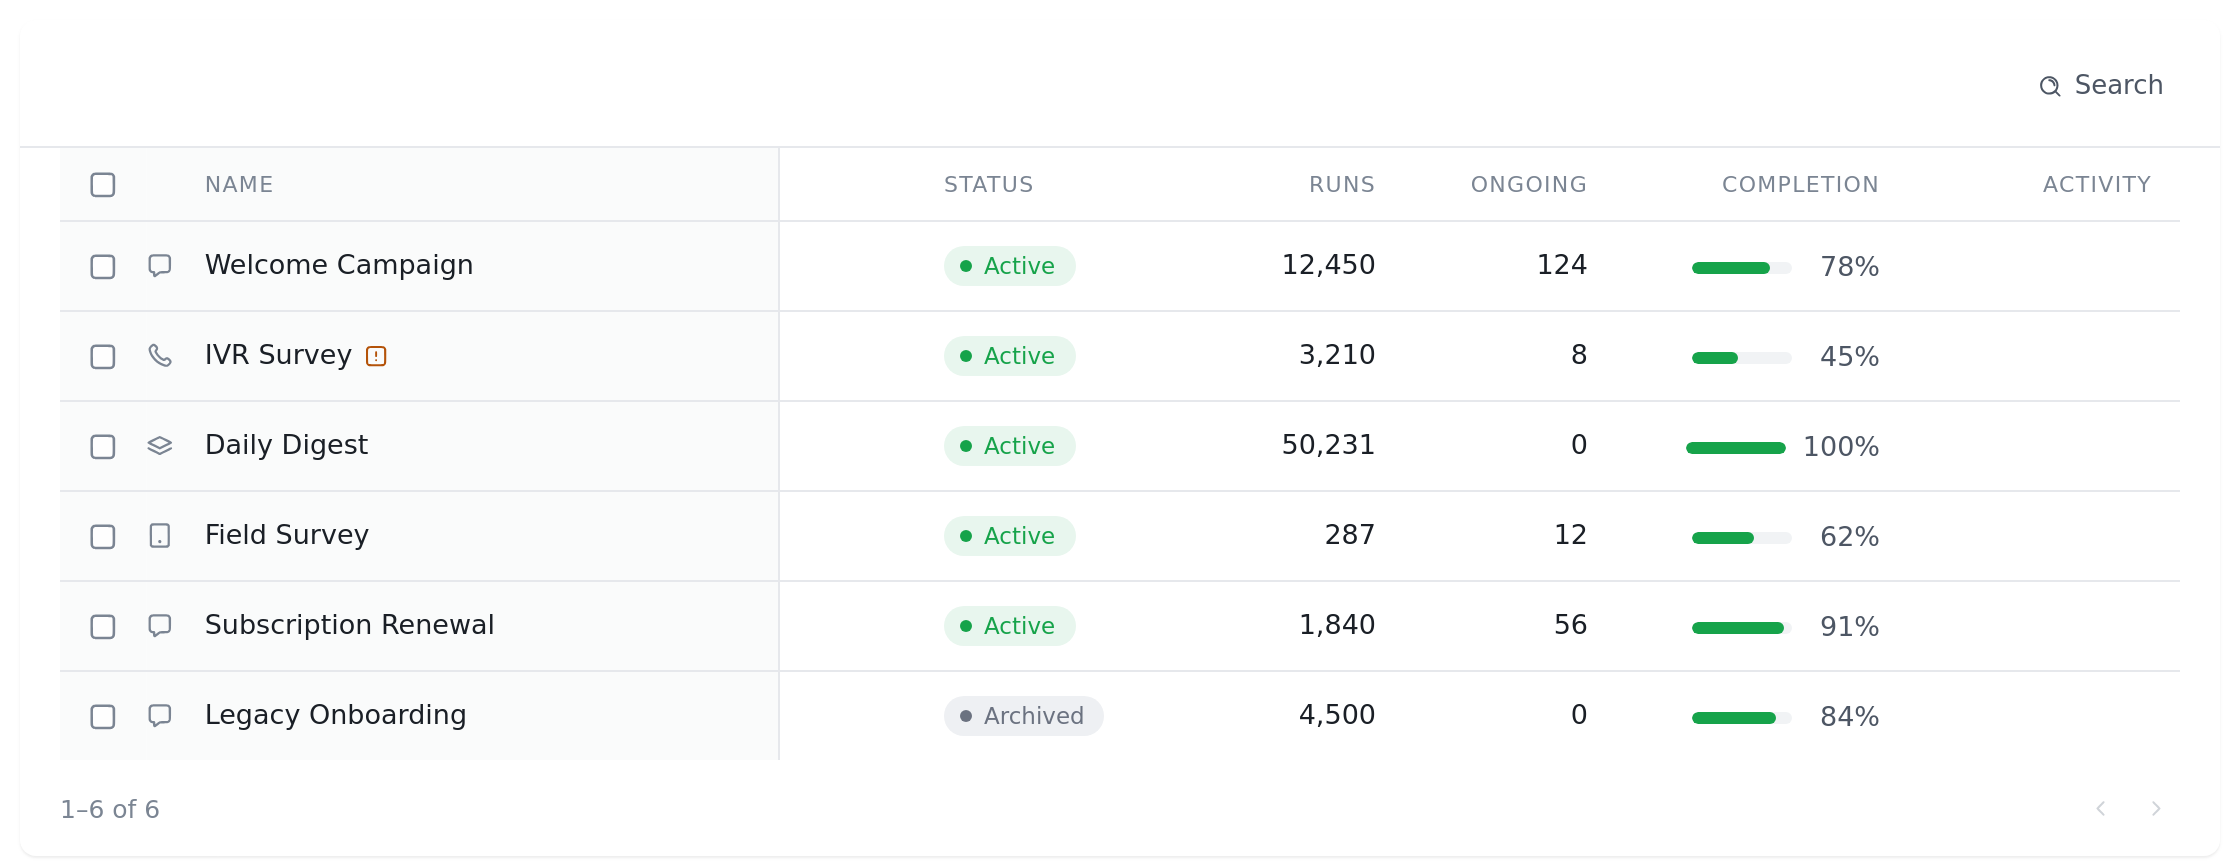
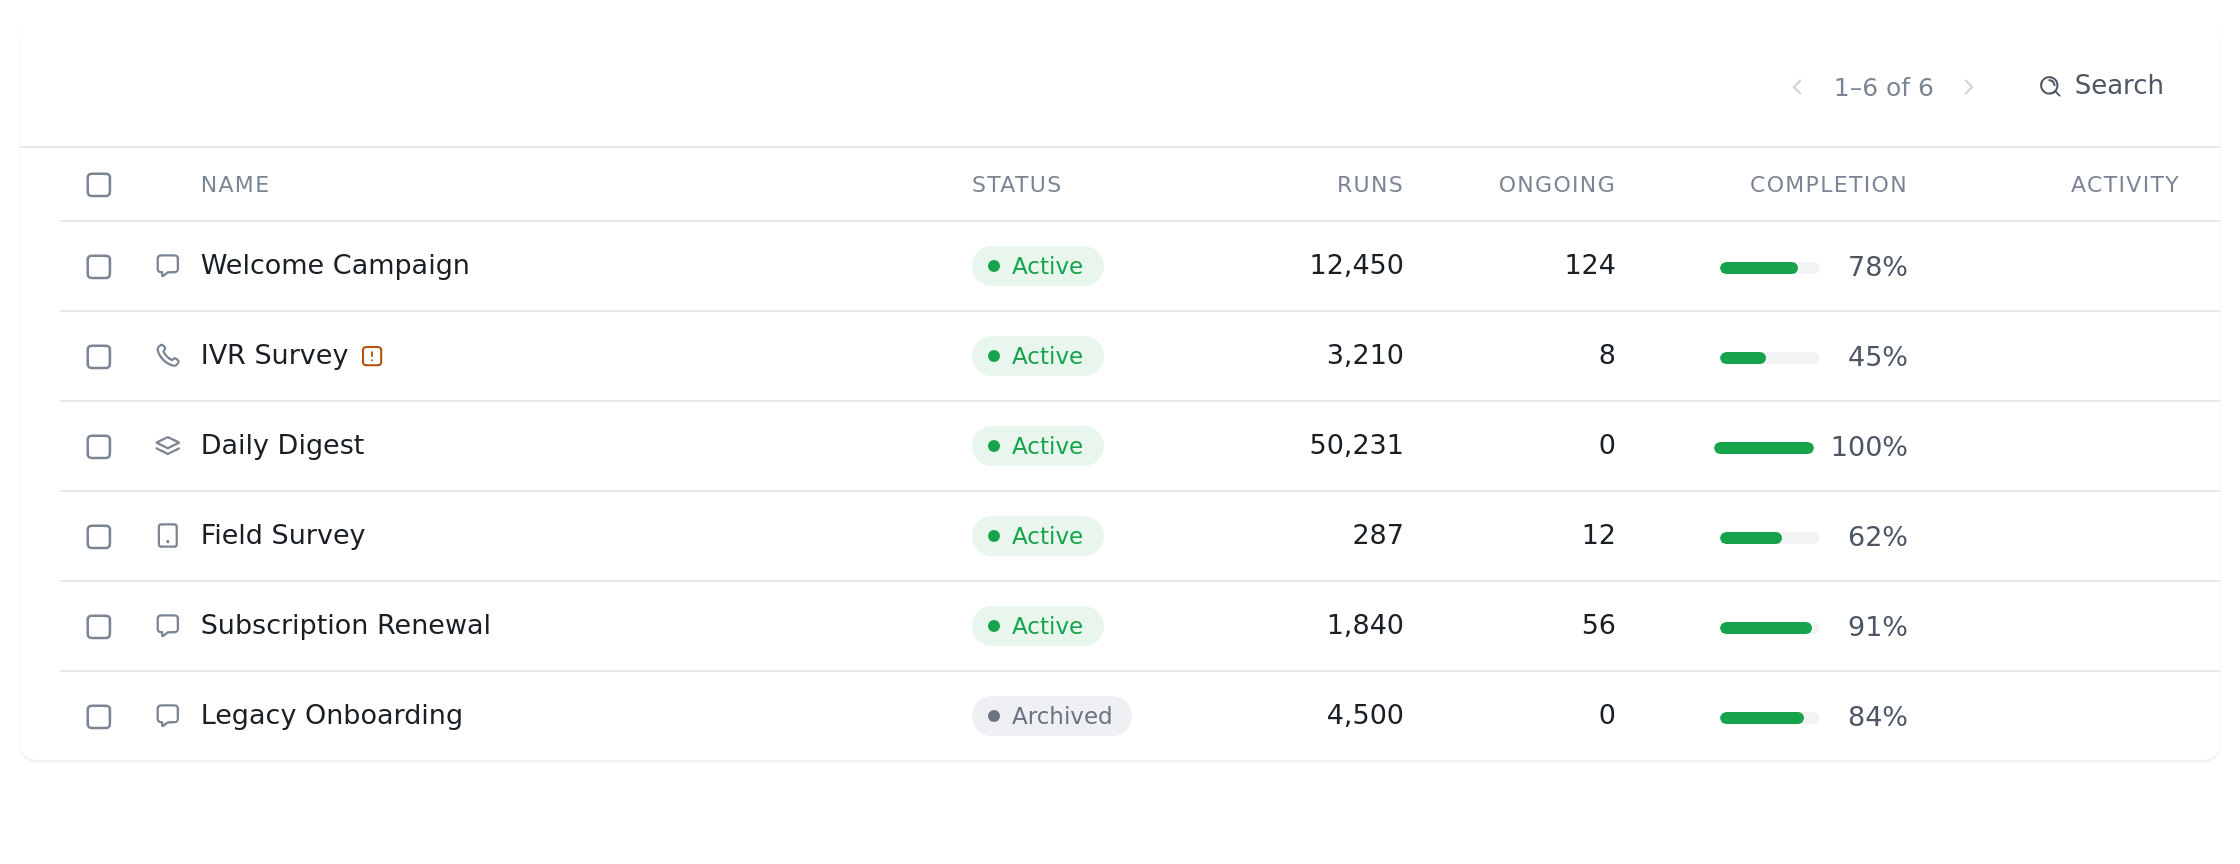
tests: fix result-count whitespace, stabilize contacts screenshot, refresh truth shots

diff --git a/test/temba-content-list.test.ts b/test/temba-content-list.test.ts
@@ -117,6 +117,13 @@ describe('temba-content-list', () => {
         once: true
       });
     });
+    // ContactList loads featured fields via a separate async fetch
+    // that's not gated on FetchComplete. Wait for the columns to
+    // include at least one custom field so the pinned-column layout
+    // is settled before snapshotting.
+    while ((list as any).featuredFields?.length === 0) {
+      await new Promise((r) => setTimeout(r, 10));
+    }
     await list.updateComplete;
     await assertScreenshot('content-list/contacts', getClip(list));
   });

diff --git a/src/list/ContentList.ts b/src/list/ContentList.ts
@@ -1688,8 +1688,9 @@ export class ContentList<T = any> extends RapidElement {
               />
               ${this.search && this.hasCount && !this.loading
                 ? html`<span class="result-count"
-                    >${this.total}
-                    ${this.total === 1 ? 'result' : 'results'}</span
+                    >${this.total} ${this.total === 1
+                      ? 'result'
+                      : 'results'}</span
                   >`
                 : null}
               <span